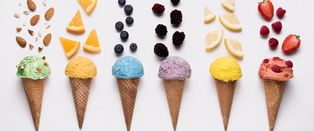
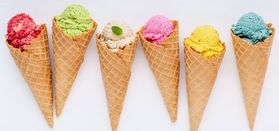
fix photo gallery

diff --git a/src/partials/gallery.html b/src/partials/gallery.html
@@ -4,88 +4,94 @@
 <section class="section-gallery gallery__background">
   <div class="container__gallery">
     <!-- ============= -->
-    <div class="gallery__slider--wrapper">
-      <picture>
-        <source
-          srcset="
-            ./images/gallery/desktop/ice-creams-1013.jpg    1x,
-            ./images/gallery/desktop/ice-creams-1013@2x.jpg 2x
-          "
-          media="(min-width: 850px)"
-        />
-        <source
-          srcset="
-            ./images/gallery/tablet/ice-creams-704.jpg    1x,
-            ./images/gallery/tablet/ice-creams-704@2x.jpg 2x
-          "
-          media="(min-width: 768px)"
-        />
-        <source
-          srcset="./images/gallery/mobile/ice-creams-279@2x.jpg 2x"
-          media="(max-width: 767px)"
-        />
-        <img
-          src="./images/gallery/mobile/ice-creams-279.jpg"
-          alt="ice-creams"
-          class="gallery__photos-ice-creams photo-1"
-        />
-      </picture>
-
-      <!-- =========== -->
-
-      <!-- <picture>
-        <source
-          srcset="
-            ./images/gallery/desktop/ice-creams-1013-three.jpg    1x,
-            ./images/gallery/desktop/ice-creams-1013-three@2x.jpg 2x
-          "
-          media="(min-width: 850px)"
-        />
-        <source
-          srcset="
-            ./images/gallery/tablet/ice-creams-704-three.jpg    1x,
-            ./images/gallery/tablet/ice-creams-704-three@2x.jpg 2x
-          "
-          media="(min-width: 768px)"
-        />
-        <source
-          srcset="./images/gallery/mobile/ice-creams-279-three@2x.jpg 2x"
-          media="(max-width: 767px)"
-        />
-        <img
-          src="./images/gallery/mobile/ice-creams-279-three.jpg"
-          alt="ice-creams"
-          class="gallery__photos-ice-creams photo-2"
-        />
-      </picture> -->
-
-      <!-- =========== -->
-
-      <!-- <picture>
-        <source
-          srcset="
-            ./images/gallery/desktop/ice-creams-1013-two.jpg    1x,
-            ./images/gallery/desktop/ice-creams-1013-two@2x.jpg 2x
-          "
-          media="(min-width: 850px)"
-        />
-        <source
-          srcset="
-            ./images/gallery/tablet/ice-creams-704-two.jpg    1x,
-            ./images/gallery/tablet/ice-creams-704-two@2x.jpg 2x
-          "
-          media="(min-width: 768px)"
-        />
-        <source
-          srcset="./images/gallery/mobile/ice-creams-279-two@2x.jpg 2x"
-          media="(max-width: 767px)"
-        />
-        <img
-          src="./images/gallery/mobile/ice-creams-279-two.jpg"
-          alt="ice-creams"
-          class="gallery__photos-ice-creams photo-3"
-        />
-      </picture> -->
+    <div class="gallery__slider swiper_gallery">
+      <div class="swiper-wrapper">
+        <!-- ============ -->
+        <div class="swiper-slide">
+          <picture>
+            <source
+              srcset="
+                ./images/gallery/desktop/ice-creams-1013.jpg    1x,
+                ./images/gallery/desktop/ice-creams-1013@2x.jpg 2x
+              "
+              media="(min-width: 850px)"
+            />
+            <source
+              srcset="
+                ./images/gallery/desktop/ice-creams-1013.jpg  1x,
+                ./images/gallery/tablet/ice-creams-704@2x.jpg 2x
+              "
+              media="(min-width: 768px)"
+            />
+            <source
+              srcset="./images/gallery/tablet/ice-creams-704@2x.jpg 2x"
+              media="(max-width: 767px)"
+            />
+            <img
+              src="./images/gallery/mobile/ice-creams-279.jpg"
+              alt="ice-creams"
+              class="gallery__photos-ice-creams photo-1"
+            />
+          </picture>
+        </div>
+        <!-- =========== -->
+        <div class="swiper-slide">
+          <picture>
+            <source
+              srcset="
+                ./images/gallery/desktop/ice-creams-1013-three.jpg    1x,
+                ./images/gallery/desktop/ice-creams-1013-three@2x.jpg 2x
+              "
+              media="(min-width: 850px)"
+            />
+            <source
+              srcset="
+                ./images/gallery/tablet/ice-creams-704-three.jpg    1x,
+                ./images/gallery/tablet/ice-creams-704-three@2x.jpg 2x
+              "
+              media="(min-width: 768px)"
+            />
+            <source
+              srcset="./images/gallery/mobile/ice-creams-279-three@2x.jpg 2x"
+              media="(max-width: 767px)"
+            />
+            <img
+              src="./images/gallery/mobile/ice-creams-279-three.jpg"
+              alt="ice-creams"
+              class="gallery__photos-ice-creams photo-2"
+            />
+          </picture>
+        </div>
+        <!-- =========== -->
+        <div class="swiper-slide">
+          <picture>
+            <source
+              srcset="
+                ./images/gallery/desktop/ice-creams-1013-two.jpg    1x,
+                ./images/gallery/desktop/ice-creams-1013-two@2x.jpg 2x
+              "
+              media="(min-width: 850px)"
+            />
+            <source
+              srcset="
+                ./images/gallery/tablet/ice-creams-704-two.jpg    1x,
+                ./images/gallery/tablet/ice-creams-704-two@2x.jpg 2x
+              "
+              media="(min-width: 768px)"
+            />
+            <source
+              srcset="./images/gallery/mobile/ice-creams-279-two@2x.jpg 2x"
+              media="(max-width: 767px)"
+            />
+            <img
+              src="./images/gallery/mobile/ice-creams-279-two.jpg"
+              alt="ice-creams"
+              class="gallery__photos-ice-creams photo-3"
+            />
+          </picture>
+        </div>
+        <!-- ======== -->
+      </div>
     </div>
   </div>
 </section>

diff --git a/src/index.html b/src/index.html
@@ -20,16 +20,16 @@
       rel="stylesheet"
     />
 
-    <!-- ==============FAVICON================ -->
+    <!-- ============= FAVICON  ================ -->
     <link rel="icon" type="image/x-icon" href="./images/favicon/favicon.png" />
 
     <!-- ============= SWIPER CSS ================= -->
     <link rel="stylesheet" href="./css/swiper-bundle.min.css" />
 
-    <!-- ===============STYLES================ -->
+    <!-- =============  STYLES  ================ -->
     <link rel="stylesheet" href="./sass/index.scss" />
 
-    <!-- ==================JAVA SCRIPT ==================== -->
+    <!-- ============ JAVA SCRIPT ================= -->
     <script type="module" src="./index.js"></script>
   </head>
 
@@ -64,7 +64,6 @@
           src="./video/Very Funny Video-Cow's Milk Competition.mp4"
           poster="./images/about/cow_s_.jpg"
           controls
-          autoplay
           loop
           preload="auto"
         ></video>

diff --git a/src/sass/layout/_gallery.scss b/src/sass/layout/_gallery.scss
@@ -61,10 +61,10 @@
 .photo-1,
 .photo-2,
 .photo-3 {
-  border-radius: 10px;
+  border-radius: 11px;
 
   @media screen and (min-width: 480px) {
-    border-radius: 14px;
+    border-radius: 19px;
   }
 
   @media screen and (min-width: 768px) {
@@ -74,4 +74,26 @@
   @media screen and (min-width: 1200px) {
     border-radius: 24px;
   }
+}
+
+// =====================
+
+.swiper.gallery__slider {
+  padding-top: 0px;
+  margin-bottom: 0px;
+
+  // @media screen and (min-width: 480px) {
+  //   padding-top: 70px;
+  //   margin-bottom: 38px;
+  // }
+
+  // @media screen and (min-width: 768px) {
+  //   padding-top: 60px;
+  //   margin-bottom: 52px;
+  // }
+
+  // @media screen and (min-width: 1200px) {
+  //   padding-top: 128px;
+  //   margin-bottom: 72px;
+  // }
 }

diff --git a/src/js/swiper-gallery.js b/src/js/swiper-gallery.js
@@ -1,0 +1,20 @@
+
+
+// ============================== SWIPER__Gallery ==========================
+
+
+let swiper = new Swiper(".swiper_gallery", {
+   
+   loop: true,
+   spaceBetween: 24,
+  grabCursor: true,
+   speed: 3500,
+    effect: "fade",
+ 
+        autoplay: {
+          delay: 3600,
+          disableOnInteraction: false,
+  },
+       
+});
+      

diff --git a/src/js/swiper-reviews.js b/src/js/swiper-reviews.js
@@ -5,10 +5,11 @@ let swiper = new Swiper(".swiper", {
    loop: true,
    spaceBetween: 24,
   grabCursor: true,
-   speed: 3000,
- 
+  speed: 3000,
+  
+
         autoplay: {
-          delay: 4600,
+          delay: 4800,
           disableOnInteraction: false,
   },
         

diff --git a/src/index.js b/src/index.js
@@ -1,2 +1,3 @@
 
-import './js/swiper-settings';
+import './js/swiper-reviews';
+import './js/swiper-gallery';
